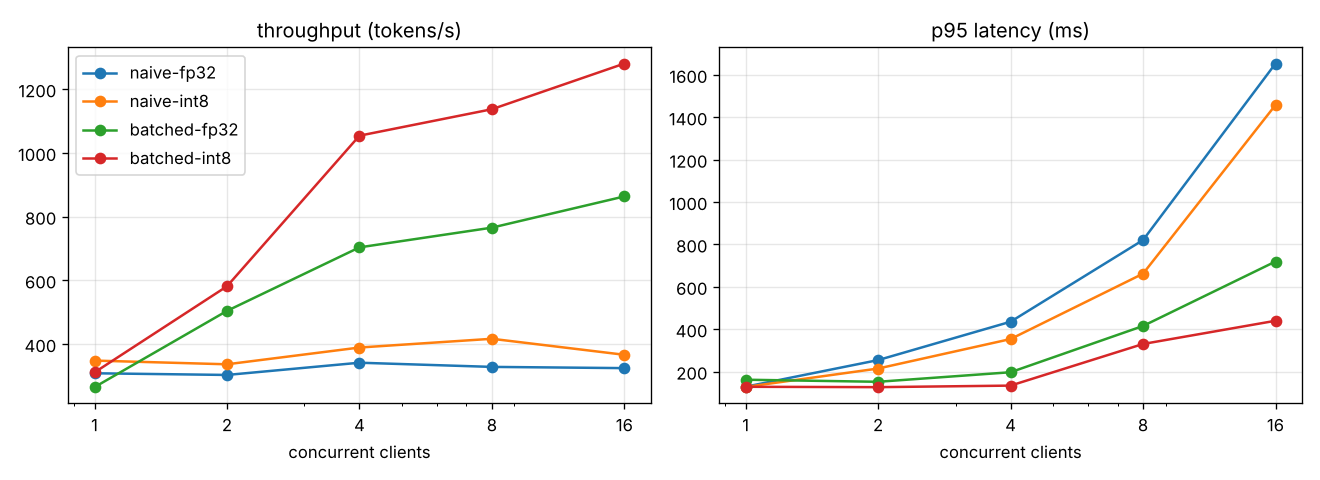
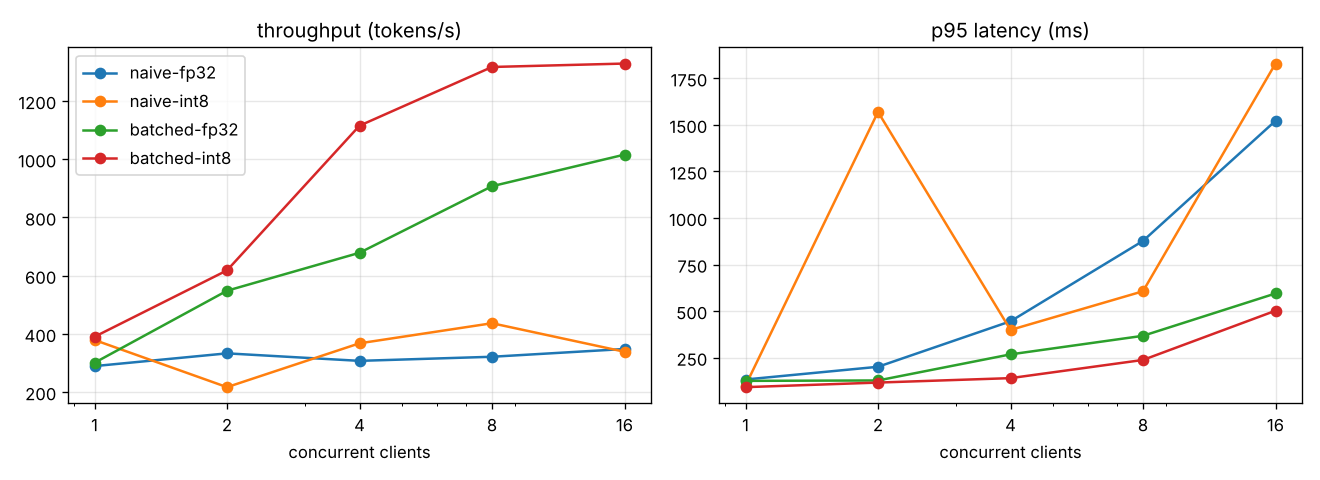
fix(llm-serving-bench): address self-review (inclusive p95, batch ctx check, byte-length 422, clean shutdown, bounded stats); regenerate results
Claude-Session: https://claude.ai/code/session_01LdbM5tujzwqV6M1G26fLgj

diff --git a/bench.py b/bench.py
@@ -36,6 +36,8 @@ def start_server(env: dict, port: int) -> subprocess.Popen:
     proc = subprocess.Popen([sys.executable, "-m", "uvicorn", "llmserve.server:app", "--port", str(port), "--log-level", "warning"],
                             env={**os.environ, **env}, cwd=Path(__file__).parent)
     for _ in range(100):
+        if proc.poll() is not None:
+            raise RuntimeError(f"server exited with code {proc.returncode}")
         try:
             if httpx.get(f"http://127.0.0.1:{port}/health").status_code == 200:
                 return proc
@@ -65,8 +67,8 @@ async def load(url: str, concurrency: int, n_requests: int, max_new: int) -> dic
         wall = time.perf_counter() - t0
         after = (await client.get(f"{url}/stats")).json()
     batches = after["batches"] - before["batches"]
-    served = after["mean_batch_size"] * after["batches"] - before["mean_batch_size"] * before["batches"]
-    q = statistics.quantiles(latencies, n=20)
+    served = after["requests"] - before["requests"]
+    q = statistics.quantiles(latencies, n=20, method="inclusive")  # exclusive extrapolates past max on small n
     return {"concurrency": concurrency, "requests": n_requests, "p50_ms": statistics.median(latencies) * 1000,
             "p95_ms": q[18] * 1000, "tokens_per_s": tokens / wall, "req_per_s": n_requests / wall,
             "mean_batch": served / batches}
@@ -131,8 +133,8 @@ def main(quick: bool = False, out: str = "results", max_new: int = 32) -> dict:
         proc = start_server({**env, **extra}, port)
         try:
             url = f"http://127.0.0.1:{port}"
-            asyncio.run(load(url, 2, 4, max_new))  # warm-up
-            results[name] = [asyncio.run(load(url, c, max(8, 3 * c), max_new)) for c in levels]
+            asyncio.run(load(url, max(levels), 2 * max(levels), max_new))  # warm-up at every batch size up to the max
+            results[name] = [asyncio.run(load(url, c, max(20, 3 * c), max_new)) for c in levels]
             print(name, json.dumps(results[name][-1]))
         finally:
             proc.terminate()

diff --git a/llmserve/server.py b/llmserve/server.py
@@ -5,7 +5,7 @@ from contextlib import asynccontextmanager
 
 import torch
 from fastapi import FastAPI
-from pydantic import BaseModel, Field
+from pydantic import BaseModel, Field, field_validator
 
 from .batcher import Batcher
 from .model import TinyGPT, decode, encode, generate, quantize
@@ -16,6 +16,13 @@ state = {}
 class GenerateRequest(BaseModel):
     prompt: str = Field(min_length=1, max_length=256)
     max_new_tokens: int = Field(default=32, ge=1, le=128)
+
+    @field_validator("prompt")
+    @classmethod
+    def fits_context(cls, v):  # byte-level tokens: 256 bytes + 128 new tokens <= ctx 512
+        if len(v.encode()) > 256:
+            raise ValueError("prompt must be at most 256 UTF-8 bytes")
+        return v
 
 
 def build_model():
@@ -32,9 +39,11 @@ async def lifespan(app):
                                          max_wait_ms=float(os.environ.get("LLM_MAX_WAIT_MS", "5")))
     # build on the model thread too: all torch work on one thread keeps one OpenMP pool (~2x faster, measured)
     model = await asyncio.get_running_loop().run_in_executor(batcher.executor, build_model)
-    task = asyncio.create_task(state["batcher"].run())
+    task = asyncio.create_task(batcher.run())
     yield
     task.cancel()
+    await asyncio.gather(task, return_exceptions=True)
+    batcher.executor.shutdown()
 
 
 app = FastAPI(title="llm-serving-bench", lifespan=lifespan)
@@ -52,7 +61,5 @@ def stats():
 
 @app.post("/generate")
 async def generate_endpoint(req: GenerateRequest):
-    # 256 chars can be up to 1024 UTF-8 bytes: keep the last 256 so prompt + 128 new tokens fits ctx 512
-    ids = encode(req.prompt)[-256:]
-    tokens = await state["batcher"].submit(ids, req.max_new_tokens)
+    tokens = await state["batcher"].submit(encode(req.prompt), req.max_new_tokens)
     return {"text": decode(tokens), "tokens": len(tokens)}

diff --git a/llmserve/batcher.py b/llmserve/batcher.py
@@ -9,7 +9,7 @@ class Batcher:
         self.run_batch = run_batch  # (prompts, max_new_tokens list) -> outputs, called in a worker thread
         self.max_batch, self.max_wait = max_batch, max_wait_ms / 1000
         self.queue: asyncio.Queue = asyncio.Queue()
-        self.batch_sizes: list[int] = []
+        self.batch_sizes: Counter = Counter()  # batch size -> count
         # one dedicated model thread: torch's OpenMP pool is per calling thread, so running torch on
         # several threads makes pools compete for the cores (measured: ~2x slower batch-1 latency)
         self.executor = ThreadPoolExecutor(max_workers=1, thread_name_prefix="model")
@@ -29,7 +29,7 @@ class Batcher:
                     batch.append(await asyncio.wait_for(self.queue.get(), left))
                 except TimeoutError:
                     break
-            self.batch_sizes.append(len(batch))
+            self.batch_sizes[len(batch)] += 1
             try:
                 outs = await loop.run_in_executor(self.executor, self.run_batch, [b[0] for b in batch], [b[1] for b in batch])
             except Exception as e:  # one failure fails the whole batch, never hangs callers
@@ -40,6 +40,6 @@ class Batcher:
                 fut.done() or fut.set_result(out)  # done() = caller went away (cancelled)
 
     def stats(self) -> dict:
-        n = len(self.batch_sizes)
-        return {"batches": n, "mean_batch_size": sum(self.batch_sizes) / n if n else 0.0,
-                "histogram": dict(sorted(Counter(self.batch_sizes).items()))}
+        n, served = self.batch_sizes.total(), sum(s * c for s, c in self.batch_sizes.items())
+        return {"batches": n, "requests": served, "mean_batch_size": served / n if n else 0.0,
+                "histogram": dict(sorted(self.batch_sizes.items()))}

diff --git a/llmserve/model.py b/llmserve/model.py
@@ -68,9 +68,9 @@ class TinyGPT(nn.Module):
 def generate(model, prompts: list[list[int]], max_new_tokens, use_cache: bool = True) -> list[list[int]]:
     """Greedy decode a batch of prompts of any lengths. max_new_tokens: int or one per prompt."""
     n_new = [max_new_tokens] * len(prompts) if isinstance(max_new_tokens, int) else list(max_new_tokens)
-    if any(not p for p in prompts) or max(len(p) + n for p, n in zip(prompts, n_new)) > model.ctx:
-        raise ValueError(f"prompts must be non-empty and prompt + new tokens <= {model.ctx}")
     L, steps = max(map(len, prompts)), max(n_new)
+    if any(not p for p in prompts) or L + steps > model.ctx:  # the whole batch decodes to L + steps
+        raise ValueError(f"prompts must be non-empty and longest prompt + most new tokens <= {model.ctx}")
     ids = torch.tensor([[0] * (L - len(p)) + p for p in prompts])
     mask = torch.tensor([[False] * (L - len(p)) + [True] * len(p) for p in prompts])
     out = []

diff --git a/tests/test_model.py b/tests/test_model.py
@@ -1,3 +1,4 @@
+import pytest
 import torch
 
 from llmserve.model import TinyGPT, decode, encode, generate, quantize
@@ -25,6 +26,12 @@ def test_batched_padded_matches_one_by_one():
     single = [generate(m, [p], n)[0] for p, n in zip(PROMPTS, [5, 12, 8])]
     assert batched == single
     assert [len(o) for o in batched] == [5, 12, 8]
+
+
+def test_context_limit_checked_over_whole_batch():
+    m = small()  # ctx 128: each request fits alone, but the batch decodes to 120 + 30
+    with pytest.raises(ValueError):
+        generate(m, [[1] * 120, [1]], [1, 30])
 
 
 def test_deterministic_with_seed():

diff --git a/tests/test_batcher.py b/tests/test_batcher.py
@@ -22,13 +22,13 @@ def test_groups_concurrent_requests_and_routes_results():
     jobs = [([i], i) for i in range(10)]
     out = asyncio.run(_run(b, jobs))
     assert out == [[i, i] for i in range(10)]
-    assert b.batch_sizes == [4, 4, 2]
+    assert b.batch_sizes == {4: 2, 2: 1}
 
 
 def test_max_batch_one_is_naive_serving():
     b = Batcher(echo_batch, max_batch=1, max_wait_ms=50)
     asyncio.run(_run(b, [([1], 1), ([2], 2), ([3], 3)]))
-    assert b.batch_sizes == [1, 1, 1]
+    assert b.batch_sizes == {1: 3}
 
 
 def test_errors_reach_every_caller_in_the_batch():

diff --git a/tests/test_server.py b/tests/test_server.py
@@ -20,6 +20,7 @@ def test_generate_and_validation(client):
     assert r.status_code == 200 and r.json()["tokens"] == 7
     assert client.post("/generate", json={"prompt": "", "max_new_tokens": 7}).status_code == 422
     assert client.post("/generate", json={"prompt": "x", "max_new_tokens": 999}).status_code == 422
+    assert client.post("/generate", json={"prompt": "é" * 200, "max_new_tokens": 1}).status_code == 422  # 400 bytes
 
 
 def test_concurrent_requests_are_batched(client):

diff --git a/README.md b/README.md
@@ -6,13 +6,13 @@ A CPU LLM inference server with **dynamic request batching** and a **KV-cache** 
 ```bash
 cd ml/llm-serving-bench
 python3.12 -m venv .venv && . .venv/bin/activate
-pip install torch --index-url https://download.pytorch.org/whl/cpu
+pip install torch==2.15.0 --index-url https://download.pytorch.org/whl/cpu
 pip install -r requirements.txt
 ```
 
 ## Usage
 ```bash
-python -m pytest -q                         # 11 tests, ~12 s (includes a quick end-to-end benchmark)
+python -m pytest -q                         # 12 tests, ~15 s (includes a quick end-to-end benchmark)
 LLM_MAX_BATCH=16 LLM_QUANT=int8 uvicorn llmserve.server:app --port 8000
 curl -X POST localhost:8000/generate -H 'content-type: application/json' -d '{"prompt":"Once upon a time","max_new_tokens":32}'
 curl localhost:8000/stats                   # batch-size histogram
@@ -31,7 +31,7 @@ HTTP /generate ─► asyncio.Queue ─► Batcher.run(): take 1st request, wait
 - `llmserve/model.py`: a GPT-2-style decoder (6 layers, d=512, 8 heads, byte vocab, 19.4 M params). It does batched greedy generation with a KV cache. Left padding plus a key mask lets prompts of different lengths share a batch; positions come from the mask, so padding does not shift them. `quantize()` = `torch.ao.quantization.quantize_dynamic` on every `nn.Linear`.
 - `llmserve/batcher.py`: dynamic batching, a standard library asyncio queue plus futures. Errors fail the whole batch, and no caller hangs.
 - `llmserve/server.py`: FastAPI `/generate`, `/stats`, `/health`.
-- `bench.py`: one server subprocess per config. Closed-loop clients at 1/2/4/8/16 concurrency, 32 new tokens per request, `max(8, 3×clients)` requests per level after a warm-up.
+- `bench.py`: one server subprocess per config. Closed-loop clients at 1/2/4/8/16 concurrency, 32 new tokens per request, `max(20, 3×clients)` requests per level after a warm-up at full concurrency. p95 uses the inclusive quantile method, so it never extrapolates past the slowest request.
 
 The tests check the important properties directly:
 - KV-cache output is identical to full recomputation.
@@ -45,13 +45,13 @@ The tests check the important properties directly:
 
 | config | clients | p50 ms | p95 ms | tokens/s | mean batch |
 |---|---|---|---|---|---|
-| naive-fp32 | 1 | 104 | 128 | 308 | 1.0 |
-| naive-fp32 | 16 | 1474 | 1653 | 324 | 1.0 |
-| naive-int8 | 16 | 1387 | 1457 | 366 | 1.0 |
-| batched-fp32 | 4 | 184 | 197 | 703 | 4.0 |
-| batched-fp32 | 16 | 589 | 719 | 863 | 8.0 |
-| batched-int8 | 4 | 118 | 134 | 1054 | 4.0 |
-| batched-int8 | 16 | 392 | 439 | **1280** | 8.0 |
+| naive-fp32 | 1 | 107 | 132 | 289 | 1.0 |
+| naive-fp32 | 16 | 1433 | 1522 | 348 | 1.0 |
+| naive-int8 | 16 | 1304 | 1829 | 339 | 1.0 |
+| batched-fp32 | 4 | 176 | 267 | 679 | 4.0 |
+| batched-fp32 | 16 | 484 | 594 | 1016 | 8.0 |
+| batched-int8 | 4 | 115 | 140 | 1115 | 4.0 |
+| batched-int8 | 16 | 361 | 502 | **1329** | 8.0 |
 
 Full table: [results/results.md](results/results.md).
 
@@ -61,13 +61,13 @@ Full table: [results/results.md](results/results.md).
 | int8 dynamic | 20.8 MB (3.7× smaller) | 73 % of tokens, 100 % of first tokens |
 
 Findings:
-- **Batching is the main lever.** At 16 clients, batched fp32 gives 2.7× the throughput of naive serving and cuts p95 latency 2.3×. Naive throughput stays flat around 300 tokens/s and latency grows linearly with the queue.
-- **int8 adds 1.2-1.5× on top of batching.** It does best at larger batches, where the int8 GEMMs pay off. Batched int8 vs naive fp32 at 16 clients is 4× the tokens/s.
+- **Batching is the main lever.** At 16 clients, batched fp32 gives 2.9× the throughput of naive serving and cuts p95 latency 2.6×. Naive throughput stays flat around 300-350 tokens/s and latency grows linearly with the queue.
+- **int8 adds 1.3-1.6× on top of batching.** Batched int8 vs naive fp32 at 16 clients is 3.8× the tokens/s.
 - **int8 changes outputs.** 27 % of greedy tokens differ from fp32. On this random-weight model the logits are nearly flat, so small errors flip the argmax. A trained model has peaked logits and usually agrees much more, but quality must be measured on the real model before int8 ships.
 - **Mean batch is 8, not 16, at 16 clients.** The closed-loop clients split into two cohorts that alternate. A longer `LLM_MAX_WAIT_MS` fills batches but adds latency to every request; continuous batching fixes this properly.
 - **Debugging note.** The first benchmark showed naive batch-1 latency 2× slower than batched batch-1. The cause was torch work running on several threads (`asyncio.to_thread` pool plus the main thread): each thread gets its own OpenMP pool, and the pools fight for the 4 cores. The fix runs all torch work, including model construction, on one dedicated thread. That halved latency.
 
-Numbers vary roughly ±15 % between runs on this shared VM.
+Numbers vary roughly ±15 % between runs on this shared VM. One outlier in the committed run: naive-int8 at 2 clients has p95 = 1569 ms against p50 = 158 ms. That is a single slow request, most likely from other work on the shared CPUs during the run. It is kept as measured.
 
 ## Not done (time box)
 Continuous (iteration-level) batching, sampling (temperature/top-p), streaming responses, paged KV memory, a real pretrained checkpoint.

diff --git a/results/results.md b/results/results.md
@@ -1,25 +1,25 @@
 | config | clients | p50 ms | p95 ms | tokens/s | req/s | mean batch |
 |---|---|---|---|---|---|---|
-| naive-fp32 | 1 | 104 | 128 | 308 | 9.63 | 1.0 |
-| naive-fp32 | 2 | 209 | 254 | 303 | 9.46 | 1.0 |
-| naive-fp32 | 4 | 354 | 435 | 341 | 10.66 | 1.0 |
-| naive-fp32 | 8 | 750 | 820 | 328 | 10.25 | 1.0 |
-| naive-fp32 | 16 | 1474 | 1653 | 324 | 10.13 | 1.0 |
-| naive-int8 | 1 | 88 | 127 | 348 | 10.87 | 1.0 |
-| naive-int8 | 2 | 190 | 214 | 336 | 10.51 | 1.0 |
-| naive-int8 | 4 | 342 | 353 | 389 | 12.15 | 1.0 |
-| naive-int8 | 8 | 586 | 662 | 416 | 13.01 | 1.0 |
-| naive-int8 | 16 | 1387 | 1457 | 366 | 11.44 | 1.0 |
-| batched-fp32 | 1 | 120 | 161 | 265 | 8.27 | 1.0 |
-| batched-fp32 | 2 | 124 | 152 | 504 | 15.75 | 2.0 |
-| batched-fp32 | 4 | 184 | 197 | 703 | 21.98 | 4.0 |
-| batched-fp32 | 8 | 394 | 415 | 765 | 23.91 | 4.8 |
-| batched-fp32 | 16 | 589 | 719 | 863 | 26.98 | 8.0 |
-| batched-int8 | 1 | 99 | 128 | 311 | 9.71 | 1.0 |
-| batched-int8 | 2 | 107 | 126 | 581 | 18.16 | 2.0 |
-| batched-int8 | 4 | 118 | 134 | 1054 | 32.93 | 4.0 |
-| batched-int8 | 8 | 182 | 330 | 1137 | 35.53 | 6.0 |
-| batched-int8 | 16 | 392 | 439 | 1280 | 40.01 | 8.0 |
+| naive-fp32 | 1 | 107 | 132 | 289 | 9.04 | 1.0 |
+| naive-fp32 | 2 | 191 | 201 | 333 | 10.41 | 1.0 |
+| naive-fp32 | 4 | 399 | 445 | 307 | 9.61 | 1.0 |
+| naive-fp32 | 8 | 757 | 877 | 321 | 10.05 | 1.0 |
+| naive-fp32 | 16 | 1433 | 1522 | 348 | 10.88 | 1.0 |
+| naive-int8 | 1 | 82 | 100 | 379 | 11.85 | 1.0 |
+| naive-int8 | 2 | 158 | 1569 | 217 | 6.78 | 1.0 |
+| naive-int8 | 4 | 337 | 399 | 368 | 11.49 | 1.0 |
+| naive-int8 | 8 | 562 | 606 | 437 | 13.65 | 1.0 |
+| naive-int8 | 16 | 1304 | 1829 | 339 | 10.58 | 1.0 |
+| batched-fp32 | 1 | 107 | 125 | 301 | 9.40 | 1.0 |
+| batched-fp32 | 2 | 118 | 127 | 548 | 17.13 | 2.0 |
+| batched-fp32 | 4 | 176 | 267 | 679 | 21.21 | 4.0 |
+| batched-fp32 | 8 | 303 | 367 | 907 | 28.35 | 4.8 |
+| batched-fp32 | 16 | 484 | 594 | 1016 | 31.75 | 8.0 |
+| batched-int8 | 1 | 83 | 91 | 390 | 12.19 | 1.0 |
+| batched-int8 | 2 | 101 | 116 | 618 | 19.32 | 2.0 |
+| batched-int8 | 4 | 115 | 140 | 1115 | 34.85 | 4.0 |
+| batched-int8 | 8 | 157 | 238 | 1317 | 41.15 | 6.0 |
+| batched-int8 | 16 | 361 | 502 | 1329 | 41.52 | 8.0 |
 
 | model | params | size MB | greedy token agreement vs fp32 | first-token agreement |
 |---|---|---|---|---|

diff --git a/SPEC.md b/SPEC.md
@@ -9,6 +9,6 @@ Build "LLM inference serving with batching and benchmarks". Serve a small open m
 - [x] quantised vs fp32 comparison committed
 - [x] Tests pass with one command; CI workflow runs them
 - [x] README with setup, usage, architecture and results
-- [ ] Self code review done
+- [x] Self code review done
 - [ ] Draft PR open
 
